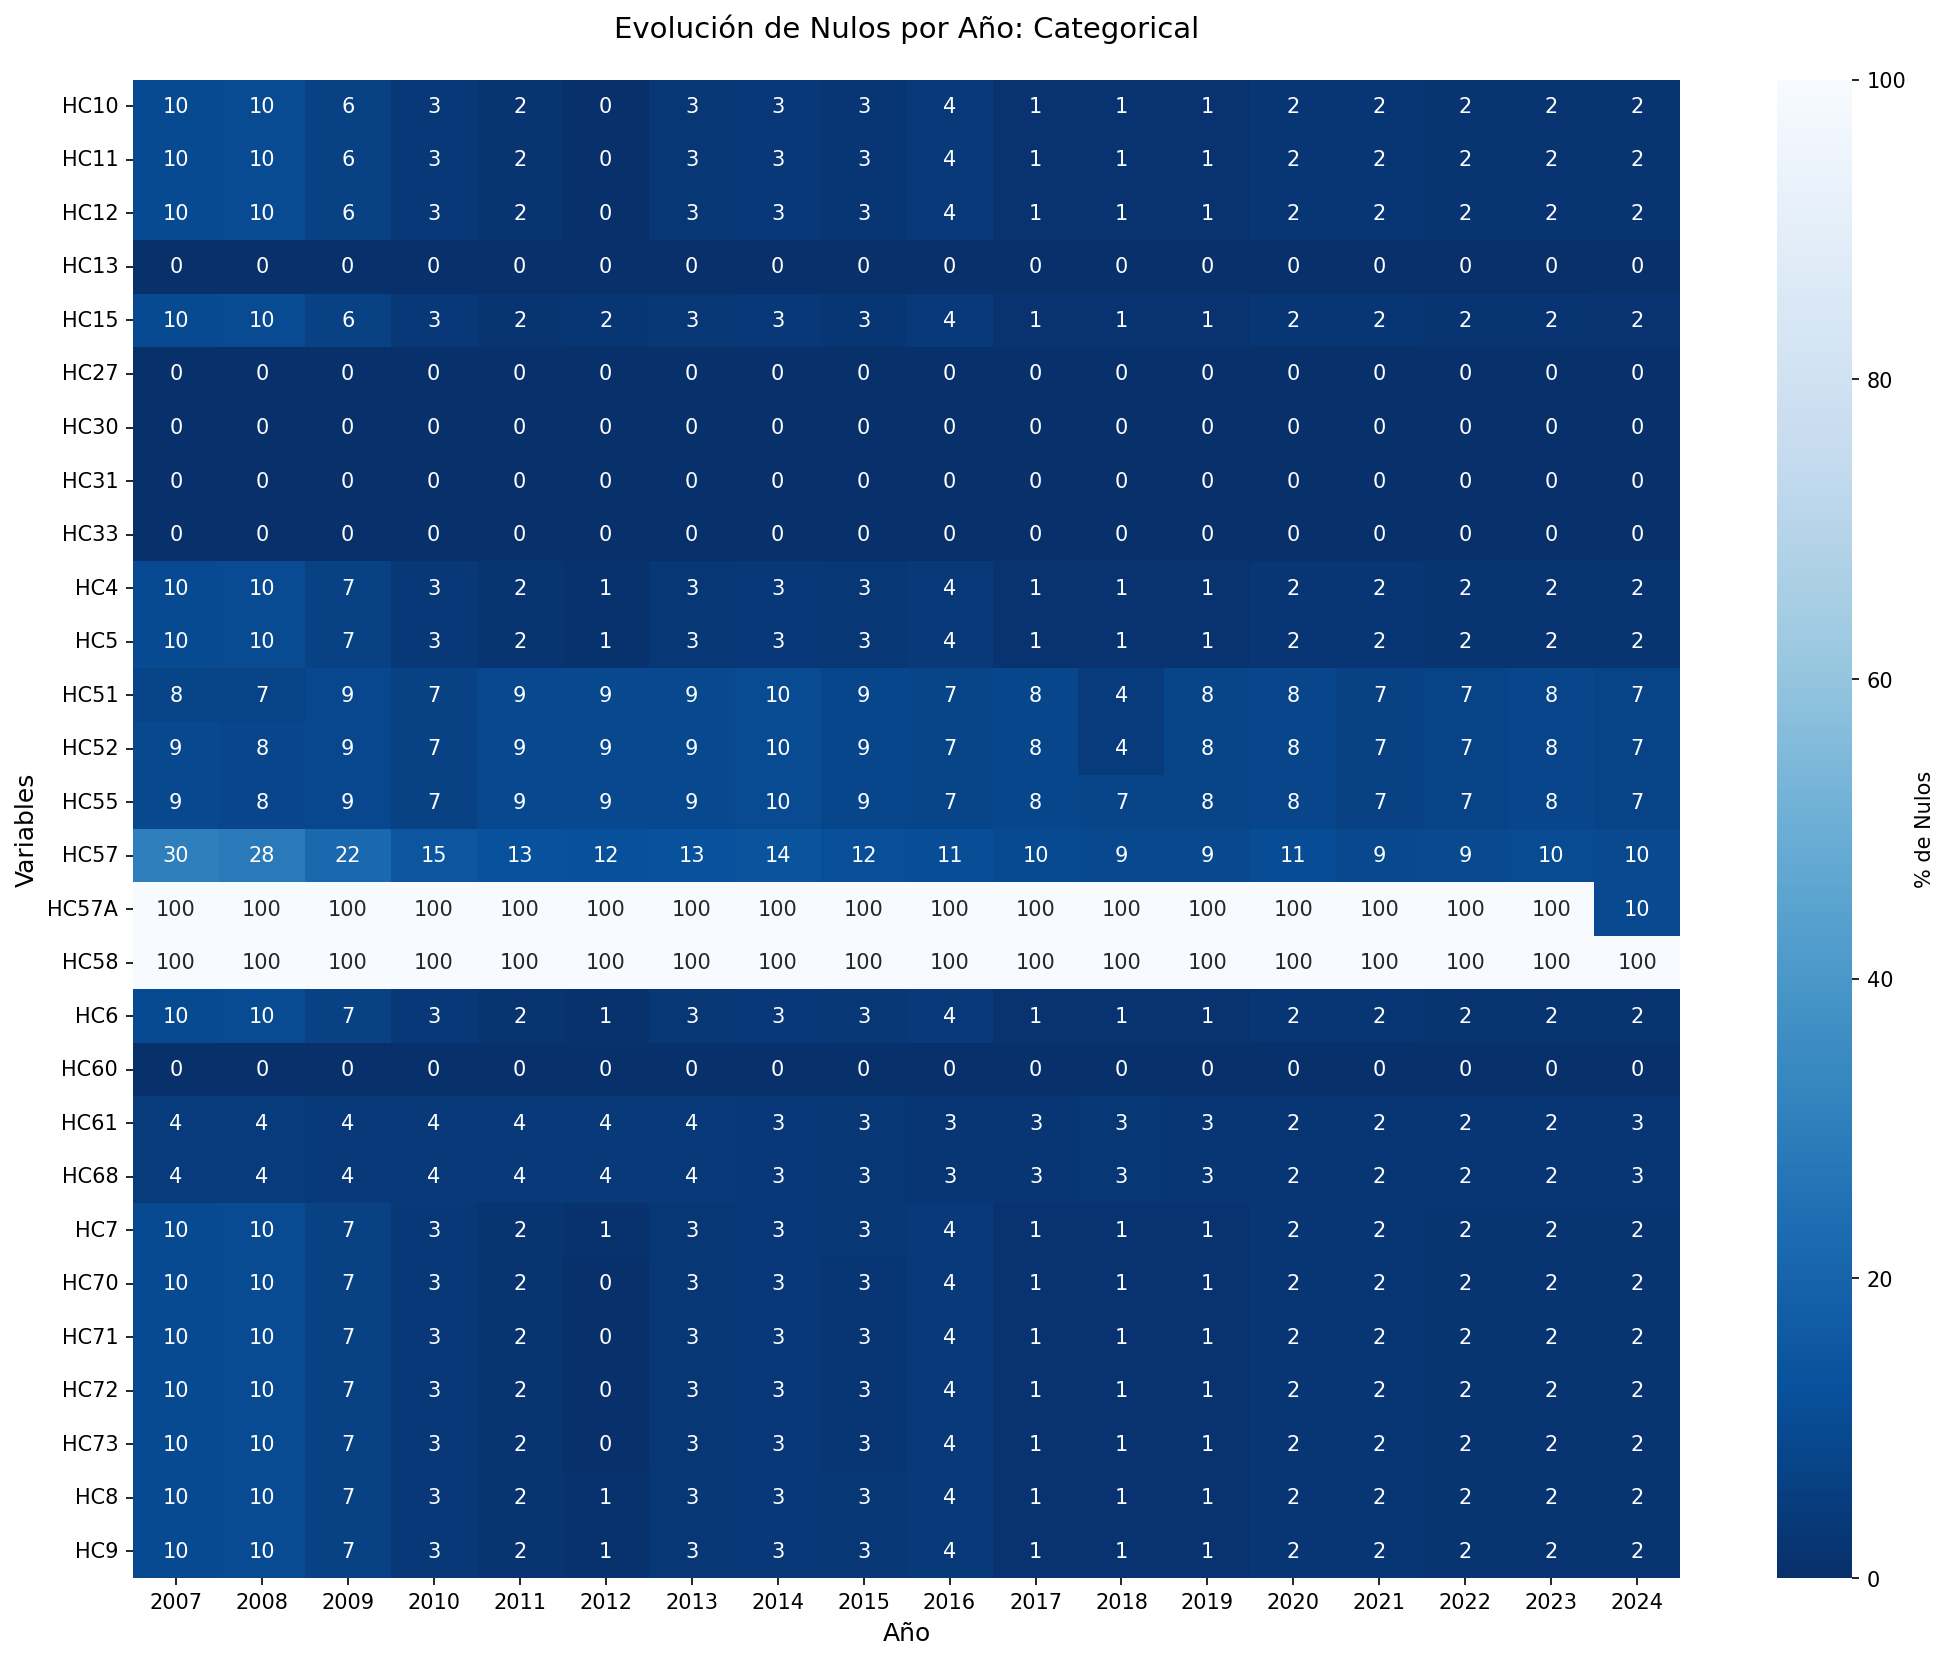
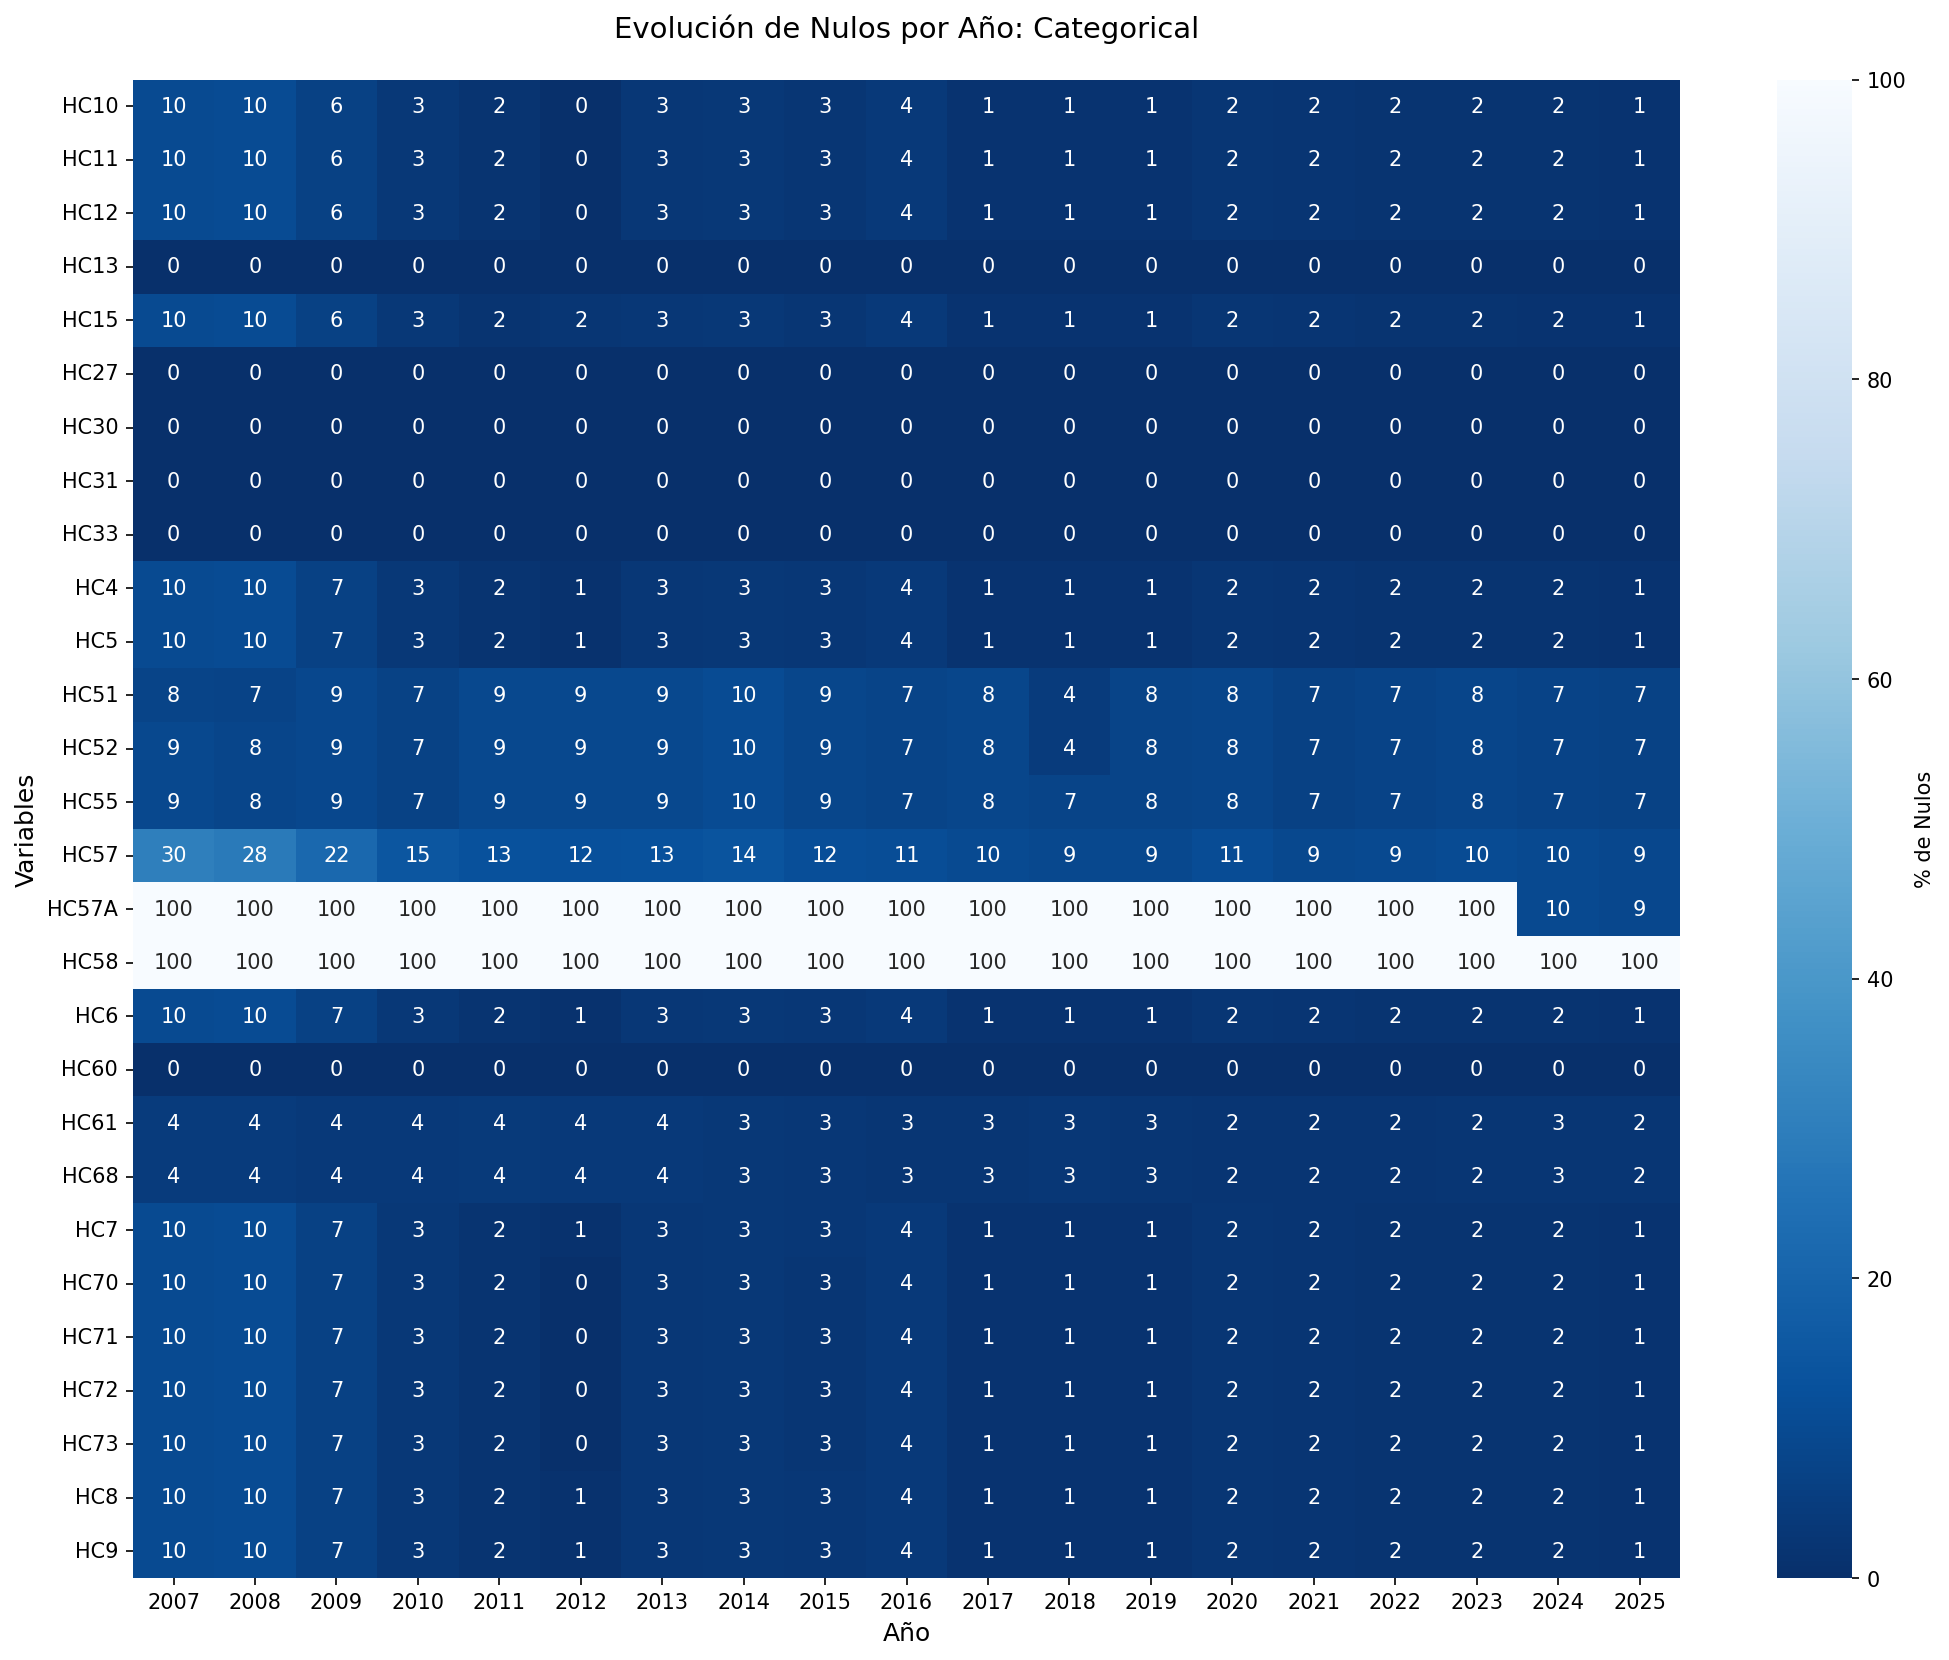
feat: include 2025 in the migrated analysis scripts
Los scripts heredaron de los notebooks un range(2007, 2025) fijo que, por
excluir el extremo, cortaba en 2024. Los datos de 2025 ya estaban descargados
(5 modulos, 19,298 niños con HC70 valido, prevalencia 11.87%) desde el fix de
ingesta en a5a0ff4, pero ningun analisis los leia.

Se reemplaza por analysis_years(), que deriva el tope de los años presentes en
data/raw en lugar del reloj: el INEI publica la ENDES del año N durante N+1, de
modo que cerrar contra date.today().year incluiria un año vacio y llenaria cada
corrida de avisos de modulo no encontrado. Los años nuevos entran solos al
descargarlos, sin editar los scripts.

El rango analitico pasa de 18 a 19 años (2007-2025). Verificado ejecutando
01_rech6_schema_y_tipos: 2025 aparece en la matriz de schema y en los heatmaps
de nulos, que se regeneran con la columna nueva.

data/interim queda intacto: solo se ejecutaron los scripts exploratorios. Los
02_*_limpieza regeneran los parquet con 19 años cuando se decida rehacer la
cadena, lo que cambiaria las metricas del manuscrito.

diff --git a/mnp/config.py b/mnp/config.py
@@ -34,6 +34,28 @@ ENDES_SURVEY_NAME = "Encuesta Demográfica y de Salud Familiar - ENDES"
 ENDES_YEAR_START = 1996
 ENDES_YEAR_END = date.today().year
 
+# Rango analítico del estudio. Arranca en 2007 porque es desde ese año que la
+# ENDES es continua y comparable; el tope se descubre solo (ver ENDES_YEAR_END),
+# de modo que los scripts recogen cada año nuevo sin editar el rango a mano.
+# Uso: load_endes(year=ANALYSIS_YEARS, ...)
+ANALYSIS_YEAR_START = 2007
+
+
+def analysis_years() -> range:
+    """Años 2007..N con datos ENDES efectivamente descargados en data/raw.
+
+    Se cierra sobre lo que hay en disco y no sobre el año del reloj: el INEI
+    publica la ENDES del año N durante N+1, asi que el año en curso suele estar
+    vacio todavia. Devolver un rango que incluya años inexistentes haria que
+    cada script arrastrase avisos de módulo no encontrado.
+    """
+    years = [
+        int(d.name)
+        for d in RAW_DATA_DIR.iterdir()
+        if d.is_dir() and d.name.isdigit() and int(d.name) >= ANALYSIS_YEAR_START
+    ]
+    return range(ANALYSIS_YEAR_START, (max(years) if years else ANALYSIS_YEAR_START) + 1)
+
 # --- Global Data Science Settings ---
 RANDOM_SEED = 42
 TEST_SIZE = 0.2  # Proporción estándar para división de train/test (80/20)

diff --git a/scripts/01_data_understanding/raw/rech0_hogar/02_rech0_limpieza.py b/scripts/01_data_understanding/raw/rech0_hogar/02_rech0_limpieza.py
@@ -27,7 +27,7 @@ print("[OK]")
 # %%
 # Carga de datos
 history = load_endes(
-        year=range(2007, 2025),
+        year=analysis_years(),
         module="household",
         record="household_characteristics",
         meta=True
@@ -79,7 +79,7 @@ print(f"[OK] Fase 3 (Estandarización de Etiquetas) completada.")
 df_final.head(15)
 
 # %%
-from mnp.config import INTERIM_DATA_DIR
+from mnp.config import analysis_years, INTERIM_DATA_DIR
 import os
 # Aseguramos que la carpeta interim exista
 os.makedirs(INTERIM_DATA_DIR, exist_ok=True)

diff --git a/scripts/01_data_understanding/raw/rech1_roster/02_rech1_limpieza.py b/scripts/01_data_understanding/raw/rech1_roster/02_rech1_limpieza.py
@@ -27,7 +27,7 @@ print("[OK]")
 # %%
 # Carga de datos
 history = load_endes(
-        year=range(2007, 2025),
+        year=analysis_years(),
         module="household",
         record="household_roster",
         meta=True
@@ -79,7 +79,7 @@ print(f"[OK] Fase 3 (Estandarización de Etiquetas) completada.")
 df_final.head(15)
 
 # %%
-from mnp.config import INTERIM_DATA_DIR
+from mnp.config import analysis_years, INTERIM_DATA_DIR
 import os
 # Aseguramos que la carpeta interim exista
 os.makedirs(INTERIM_DATA_DIR, exist_ok=True)

diff --git a/scripts/01_data_understanding/raw/rech6_antropometria/02_rech6_limpieza.py b/scripts/01_data_understanding/raw/rech6_antropometria/02_rech6_limpieza.py
@@ -27,7 +27,7 @@ print("[OK]")
 # %%
 # Carga de datos
 history = load_endes(
-        year=range(2007, 2025),
+        year=analysis_years(),
         module="anthropometry",
         record="rech6",
         meta=True
@@ -83,7 +83,7 @@ df_final.head(15)
 df_final['HC10'].value_counts(dropna=False)
 
 # %%
-from mnp.config import INTERIM_DATA_DIR
+from mnp.config import analysis_years, INTERIM_DATA_DIR
 import os
 # Aseguramos que la carpeta interim exista
 os.makedirs(INTERIM_DATA_DIR, exist_ok=True)

diff --git a/scripts/01_data_understanding/raw/rech6_antropometria/01_rech6_schema_y_tipos.py b/scripts/01_data_understanding/raw/rech6_antropometria/01_rech6_schema_y_tipos.py
@@ -27,12 +27,13 @@ pd.set_option("display.max_rows", None)
 pd.set_option("display.max_columns", None)
 pd.set_option("display.max_colwidth", None)
 import gc
+from mnp.config import analysis_years
 from mnp.ingestion.loader import load_endes
 from mnp.utils.figures import save_fig
 
 # Carga de historial desde 2007 para RECH6
 history = load_endes(
-        year=range(2007, 2025),
+        year=analysis_years(),
         module="anthropometry",
         record="rech6",
         meta=True

diff --git a/scripts/01_data_understanding/raw/rech0_hogar/01_rech0_schema_y_tipos.py b/scripts/01_data_understanding/raw/rech0_hogar/01_rech0_schema_y_tipos.py
@@ -18,12 +18,13 @@ pd.set_option("display.max_rows", None)
 pd.set_option("display.max_columns", None)
 pd.set_option("display.max_colwidth", None)
 import gc
+from mnp.config import analysis_years
 from mnp.ingestion.loader import load_endes
 
 
 # Carga de historial desde 2007 para RECH0
 history = load_endes(
-        year=range(2007, 2025),
+        year=analysis_years(),
         module="household",
         record="household_characteristics",
         meta=True

diff --git a/scripts/01_data_understanding/raw/rech1_roster/01_rech1_schema_y_tipos.py b/scripts/01_data_understanding/raw/rech1_roster/01_rech1_schema_y_tipos.py
@@ -18,12 +18,13 @@ pd.set_option("display.max_rows", None)
 pd.set_option("display.max_columns", None)
 pd.set_option("display.max_colwidth", None)
 import gc
+from mnp.config import analysis_years
 from mnp.ingestion.loader import load_endes
 
 
 # Carga de historial desde 2007 para RECH1
 history = load_endes(
-        year=range(2007, 2025),
+        year=analysis_years(),
         module="household",
         record="household_roster",
         meta=True

diff --git a/scripts/01_data_understanding/raw/rech23_geografia/02_rech23_limpieza.py b/scripts/01_data_understanding/raw/rech23_geografia/02_rech23_limpieza.py
@@ -27,7 +27,7 @@ print("[OK]")
 # %%
 # Carga de datos
 history = load_endes(
-        year=range(2007, 2025),
+        year=analysis_years(),
         module="housing",
         record="rech23h",
         meta=True
@@ -139,7 +139,7 @@ df_final.head(15)
 
 
 # %%
-from mnp.config import INTERIM_DATA_DIR
+from mnp.config import analysis_years, INTERIM_DATA_DIR
 import os
 # Aseguramos que la carpeta interim exista
 os.makedirs(INTERIM_DATA_DIR, exist_ok=True)

diff --git a/scripts/01_data_understanding/raw/rec41_salud_materna/01_rec41_schema_y_tipos.py b/scripts/01_data_understanding/raw/rec41_salud_materna/01_rec41_schema_y_tipos.py
@@ -18,12 +18,13 @@ pd.set_option("display.max_rows", None)
 pd.set_option("display.max_columns", None)
 pd.set_option("display.max_colwidth", None)
 import gc
+from mnp.config import analysis_years
 from mnp.ingestion.loader import load_endes
 
 
 # Carga de historial desde 2007 para RECH6
 history = load_endes(
-        year=range(2007, 2025),
+        year=analysis_years(),
         module="maternal_health",
         record="rec41",
         meta=True

diff --git a/scripts/01_data_understanding/raw/rech23_geografia/01_rech23_schema_y_tipos.py b/scripts/01_data_understanding/raw/rech23_geografia/01_rech23_schema_y_tipos.py
@@ -18,12 +18,13 @@ pd.set_option("display.max_rows", None)
 pd.set_option("display.max_columns", None)
 pd.set_option("display.max_colwidth", None)
 import gc
+from mnp.config import analysis_years
 from mnp.ingestion.loader import load_endes
 
 
 # Carga de historial desde 2007 para RECH1
 history = load_endes(
-        year=range(2007, 2025),
+        year=analysis_years(),
         module="housing",
         record="rech23h",
         meta=True

diff --git a/scripts/01_data_understanding/raw/rec41_salud_materna/02_rec41_limpieza.py b/scripts/01_data_understanding/raw/rec41_salud_materna/02_rec41_limpieza.py
@@ -14,7 +14,7 @@
 
 # %%
 import pandas as pd
-from mnp.config import INTERIM_DATA_DIR
+from mnp.config import analysis_years, INTERIM_DATA_DIR
 import numpy as np
 import gc
 from mnp.ingestion.loader import load_endes
@@ -29,7 +29,7 @@ print("[OK]")
 # %%
 # Carga de datos
 history = load_endes(
-        year=range(2007, 2025),
+        year=analysis_years(),
         module="maternal_health",
         record="rec41",
         meta=True
